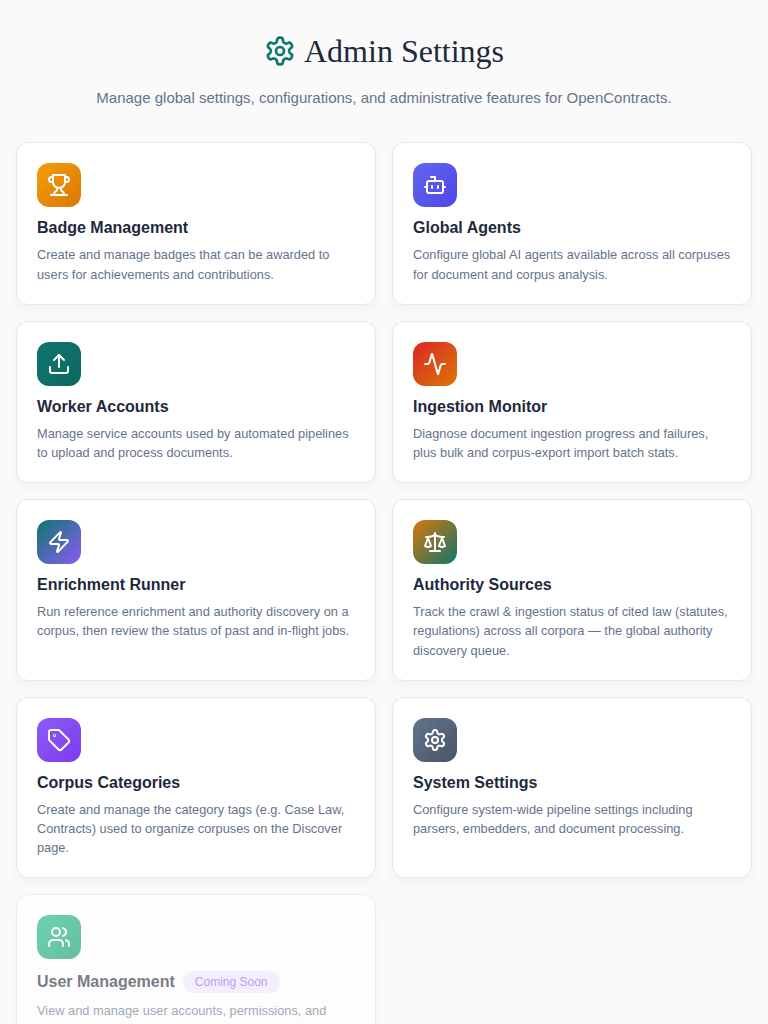
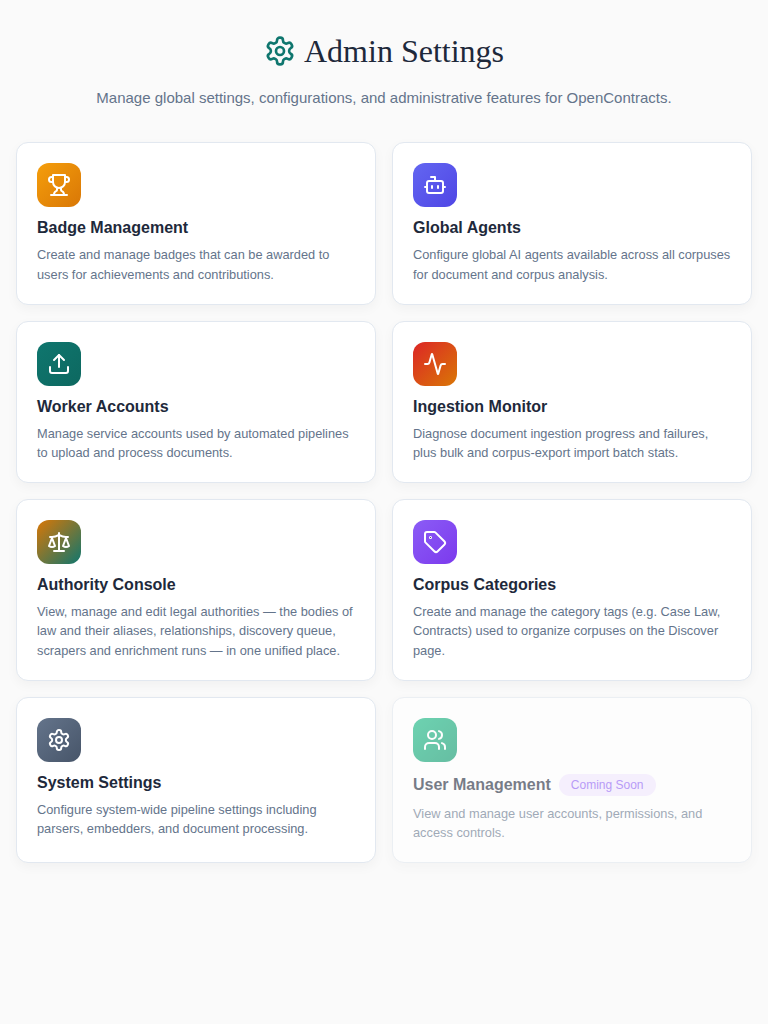
Fix admin-components CT for the collapsed authority card
The GlobalSettingsPanel CT asserted a standalone "Enrichment Runner" card, but
Phase 1 intentionally collapsed the three authority admin cards (Authority
Sources / Authority Mappings / Enrichment Runner) into one "Authority Console"
card. Update the test to assert the unified card (preserving its regression
intent — the authority admin surface stays reachable from the GUI) and that the
three old cards are gone. Only CT failure on the branch; full backend pytest is
green.

diff --git a/frontend/tests/admin-components.ct.tsx b/frontend/tests/admin-components.ct.tsx
@@ -145,21 +145,34 @@ test.describe("GlobalSettingsPanel Component", () => {
     await component.unmount();
   });
 
-  test("should render the Enrichment Runner card so /admin/enrichment is reachable", async ({
+  test("should render the Authority Console card so authority admin is reachable", async ({
     mount,
     page,
   }) => {
-    // Regression: the panel linked to /admin/authorities but had no card for
-    // the /admin/enrichment runner, so it was unreachable from the GUI.
+    // The three former authority admin cards (Authority Sources / Authority
+    // Mappings / Enrichment Runner) were collapsed into ONE "Authority Console"
+    // card pointing at /admin/authority, whose tabs absorb all three surfaces
+    // (the Runs tab is the former enrichment runner). This guards that the
+    // unified authority admin surface stays reachable from the GUI.
     const component = await mount(<GlobalSettingsPanelWrapper />);
 
     const card = page.locator(
-      '[data-testid="settings-card-enrichment-runner"]'
+      '[data-testid="settings-card-authority-console"]'
     );
     await expect(card).toBeVisible();
-    await expect(card).toContainText("Enrichment Runner");
+    await expect(card).toContainText("Authority Console");
     // Must be an active (clickable) card, not a Coming Soon placeholder.
     await expect(card.locator("text=Coming Soon")).toHaveCount(0);
+    // The old per-concern cards are gone (absorbed into the console's tabs).
+    await expect(
+      page.locator('[data-testid="settings-card-enrichment-runner"]')
+    ).toHaveCount(0);
+    await expect(
+      page.locator('[data-testid="settings-card-authority-sources"]')
+    ).toHaveCount(0);
+    await expect(
+      page.locator('[data-testid="settings-card-authority-mappings"]')
+    ).toHaveCount(0);
 
     await component.unmount();
   });
